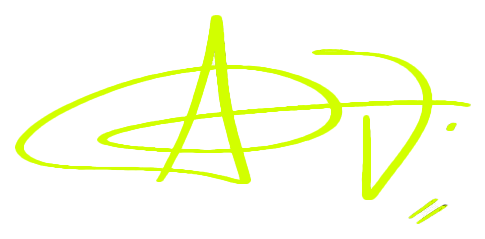
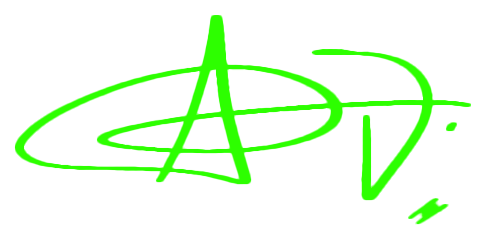
feat(theme): couleurs principales du site en BLANC + VERT #2DFF00
Retour client : le vert #2DFF00 devient l'accent principal, sur base sombre
et texte blanc. Retire l'orange (#f97316) et le bleu (#3b82f6) qui juraient,
et unifie les differents lime (#D2FF00, #C6EE2A, #D0F000) sur un seul vert.

- Tokens (tokens.ts + globals.css @theme, synchronises) : cta #f97316 ->
  #2DFF00, secondary #3b82f6 -> #2DFF00. ctaFg reste sombre (#0a0e14) : le
  texte du CTA sur vert vif garde un contraste ~13:1. text reste blanc.
- Hero du haut (wreck-reveal-hero + scroll-assembly-hero) : pilule d'appel,
  barre de signature et traces passent de #D2FF00 a #2DFF00.
- HeroAlo : accent, titre (LÀ/LÂCHE), liens et CTA de #C6EE2A a #2DFF00.
- Signature (public/signature-ad.webp) : recoloree #D0F000 -> #2DFF00 par
  Pillow (alpha des bords lisses preserve).
- Carte des routes Europe : orange -> vert.

Contraste : tokens.test.ts 10/10 (le CTA vert passe AA, blanc-sur-vert
echoue toujours d'ou le texte sombre) ; axe 0 violation sur /fr,
/transport-europe, /contact, /tarifs.

NON touche volontairement : le halo ambre (#f97316) de la descente WebGL de
la page contact — design VALIDÉ par le client (« parfait comme ça »), pas a
modifier sans demande. A confirmer s'il doit passer au vert aussi.

Changed region(s): [[0.0309, 0.0586, 0.9897, 0.8494], [0.8351, 0.8201, 0.9278, 0.9372]]

diff --git a/src/components/ui/scroll-assembly-hero.tsx b/src/components/ui/scroll-assembly-hero.tsx
@@ -512,7 +512,7 @@ export default function ScrollAssemblyHero({
         </div>
         <a
           href={callHref}
-          className="absolute right-6 top-24 inline-flex min-h-[44px] items-center gap-2 rounded-xl bg-[#D2FF00] px-4 py-2 text-sm font-bold uppercase text-[#111112]"
+          className="absolute right-6 top-24 inline-flex min-h-[44px] items-center gap-2 rounded-xl bg-[#2DFF00] px-4 py-2 text-sm font-bold uppercase text-[#111112]"
         >
           <PhoneIcon />
           {callLabel} <span className="font-mono tabular-nums">{callNumber}</span>
@@ -652,17 +652,17 @@ export default function ScrollAssemblyHero({
           >
             <motion.path
               d="M40 150 C 60 60 90 40 100 70 C 108 92 96 128 82 150 C 70 168 60 160 66 140 L 150 60 C 160 50 168 54 162 70 L 130 150 C 126 160 132 164 140 156 C 168 130 200 120 210 140 C 222 162 200 186 178 178 C 160 172 164 148 186 142"
-              stroke="#D2FF00" strokeWidth="10" strokeLinecap="round"
+              stroke="#2DFF00" strokeWidth="10" strokeLinecap="round"
               style={{ pathLength: sig1, opacity: sig1Vis }}
             />
             <motion.path
               d="M30 200 C 120 230 260 220 330 180"
-              stroke="#D2FF00" strokeWidth="10" strokeLinecap="round"
+              stroke="#2DFF00" strokeWidth="10" strokeLinecap="round"
               style={{ pathLength: sig2, opacity: sig2Vis }}
             />
             <motion.path
               d="M360 70 C 380 50 404 56 404 76 C 404 96 372 108 360 124 L 408 124 M446 60 L 424 104 L 462 104 M452 84 L 452 128 M486 130 L 512 56 M520 60 L 560 60 L 534 130"
-              stroke="#D2FF00" strokeWidth="10" strokeLinecap="round"
+              stroke="#2DFF00" strokeWidth="10" strokeLinecap="round"
               style={{ pathLength: sig3, opacity: sig3Vis }}
             />
           </svg>
@@ -674,7 +674,7 @@ export default function ScrollAssemblyHero({
           <LaurelIcon className="h-6 w-6" />
           <p className="text-[10px] font-bold uppercase tracking-[0.2em]">{caption}</p>
           <motion.div
-            className="h-0.5 w-24 origin-left bg-[#D2FF00]"
+            className="h-0.5 w-24 origin-left bg-[#2DFF00]"
             style={{ scaleX: barScale }}
           />
         </motion.div>
@@ -697,7 +697,7 @@ export default function ScrollAssemblyHero({
 
         <motion.a
           href={callHref}
-          className="absolute right-6 top-24 z-40 inline-flex min-h-[44px] items-center gap-2 rounded-xl bg-[#D2FF00] px-4 py-2 text-sm font-bold uppercase text-[#111112]"
+          className="absolute right-6 top-24 z-40 inline-flex min-h-[44px] items-center gap-2 rounded-xl bg-[#2DFF00] px-4 py-2 text-sm font-bold uppercase text-[#111112]"
           whileHover={{ scale: 1.05 }}
           transition={{ type: 'spring', stiffness: 300, damping: 18 }}
         >

diff --git a/src/components/ui/wreck-reveal-hero.tsx b/src/components/ui/wreck-reveal-hero.tsx
@@ -73,7 +73,7 @@ import InkReveal from './ink-reveal';
  * Adaptations projet (memes raisons que scroll-assembly-hero) :
  * framer-motion, Inter, Instrument Serif deja en place, pas de lucide,
  * pilule lime = bouton d'APPEL, tokens calibres sur le vrai site
- * (#D2FF00/#EFEFE5), reduced-motion = un ecran statique restaure.
+ * (#2DFF00/#EFEFE5), reduced-motion = un ecran statique restaure.
  */
 
 interface WreckRevealHeroProps {
@@ -440,7 +440,7 @@ export default function WreckRevealHero({
         </div>
         <a
           href={callHref}
-          className="absolute right-6 top-24 inline-flex min-h-[44px] items-center gap-2 rounded-xl bg-[#D2FF00] px-4 py-2 text-sm font-bold uppercase text-[#111112]"
+          className="absolute right-6 top-24 inline-flex min-h-[44px] items-center gap-2 rounded-xl bg-[#2DFF00] px-4 py-2 text-sm font-bold uppercase text-[#111112]"
         >
           <PhoneIcon />
           {callLabel} <span className="font-mono tabular-nums">{callNumber}</span>
@@ -630,7 +630,7 @@ export default function WreckRevealHero({
         >
           <LaurelIcon className="h-6 w-6" />
           <p className="text-[10px] font-bold uppercase tracking-[0.2em]">{caption}</p>
-          <motion.div className="h-0.5 w-24 origin-left bg-[#D2FF00]" style={{ scaleX: barScale }} />
+          <motion.div className="h-0.5 w-24 origin-left bg-[#2DFF00]" style={{ scaleX: barScale }} />
         </motion.div>
 
         {/* Chrome fixe (sous le header sticky du site : top-24). */}
@@ -642,7 +642,7 @@ export default function WreckRevealHero({
         </motion.div>
         <motion.a
           href={callHref}
-          className="absolute right-6 top-24 z-40 inline-flex min-h-[44px] items-center gap-2 rounded-xl bg-[#D2FF00] px-4 py-2 text-sm font-bold uppercase text-[#111112]"
+          className="absolute right-6 top-24 z-40 inline-flex min-h-[44px] items-center gap-2 rounded-xl bg-[#2DFF00] px-4 py-2 text-sm font-bold uppercase text-[#111112]"
           whileHover={{ scale: 1.05 }}
           transition={{ type: 'spring', stiffness: 300, damping: 18 }}
         >
@@ -683,7 +683,7 @@ export default function WreckRevealHero({
                 type="button"
                 onClick={() => setQa(mode)}
                 className={`rounded-md px-3 py-1.5 text-xs font-bold uppercase ${
-                  qa === mode ? 'bg-[#D2FF00] text-[#111112]' : 'bg-black/60 text-white'
+                  qa === mode ? 'bg-[#2DFF00] text-[#111112]' : 'bg-black/60 text-white'
                 }`}
               >
                 {mode}

diff --git a/src/components/ui/HeroAlo.tsx b/src/components/ui/HeroAlo.tsx
@@ -19,9 +19,10 @@ import { ContourLayer } from './scroll-assembly-hero';
  * (pages / reseaux), frise de reassurance, CTA pilule a cheval sur le bord
  * bas, et un pied de section fin.
  *
- * Palette B « neon » (choisie) : panneau olive tres sombre #171912, accent
- * lime #C6EE2A, texte #F4F4F4 / secondaire #9A9A9A — coherente avec la lime
- * deja presente dans le hero du haut et la signature (#D0F000).
+ * Palette « neon » : panneau olive tres sombre #171912, accent VERT #2DFF00
+ * (couleur principale du site, retour client 2026-07-22 — remplace l'ancien
+ * lime/orange), texte #F4F4F4 / secondaire #9A9A9A. La signature et tous les
+ * accents du site partagent desormais ce meme vert.
  *
  * Composant autonome et TRILINGUE : sa copie vit dans COPY[locale] plutot
  * que dans le systeme de contenu partage (il ne sert qu'ici). Les liens
@@ -155,7 +156,7 @@ const COPY: Record<
   },
 };
 
-const ACCENT = '#C6EE2A';
+const ACCENT = '#2DFF00';
 const PANEL_BG = '#F2F4E6'; // couleur du fond clair au niveau du bord haut (encoche)
 
 export function HeroAlo({ locale }: { locale: Locale }) {
@@ -377,7 +378,7 @@ export function HeroAlo({ locale }: { locale: Locale }) {
               <li key={p.href}>
                 <a
                   href={linkFor(p.href)}
-                  className="text-lg font-extrabold uppercase tracking-tight text-[#F4F4F4] transition-colors hover:text-[#C6EE2A]"
+                  className="text-lg font-extrabold uppercase tracking-tight text-[#F4F4F4] transition-colors hover:text-[#2DFF00]"
                 >
                   {p.label}
                 </a>
@@ -410,7 +411,7 @@ export function HeroAlo({ locale }: { locale: Locale }) {
                   href={isResolved(s.field) ? s.field.value : '#'}
                   target="_blank"
                   rel="noopener noreferrer"
-                  className="text-lg font-extrabold uppercase tracking-tight text-[#F4F4F4] transition-colors hover:text-[#C6EE2A]"
+                  className="text-lg font-extrabold uppercase tracking-tight text-[#F4F4F4] transition-colors hover:text-[#2DFF00]"
                 >
                   {s.label}
                 </a>

diff --git a/src/components/ui/EuropeRoutesStatic.tsx b/src/components/ui/EuropeRoutesStatic.tsx
@@ -45,7 +45,7 @@ export function EuropeRoutesStatic({
             y1={HUB.y}
             x2={city.x}
             y2={city.y}
-            stroke="#F97316"
+            stroke="#2DFF00"
             strokeWidth={1}
             strokeOpacity={0.5}
             strokeDasharray="3 3"
@@ -58,7 +58,7 @@ export function EuropeRoutesStatic({
               cx={city.x}
               cy={city.y}
               r={city.name === HUB.name ? 6 : 3}
-              fill={city.name === HUB.name ? '#F97316' : '#94A3B8'}
+              fill={city.name === HUB.name ? '#2DFF00' : '#94A3B8'}
             />
             <text
               x={city.x + 9}

diff --git a/src/app/globals.css b/src/app/globals.css
@@ -9,9 +9,9 @@
   --color-surface: #141a23;
   --color-text: #f8fafc;
   --color-muted: #94a3b8;
-  --color-cta: #f97316;
+  --color-cta: #2dff00;
   --color-cta-fg: #0a0e14;
-  --color-secondary: #3b82f6;
+  --color-secondary: #2dff00;
   --color-border: #1e293b;
 
   /* Alias facon shadcn : les composants integres depuis des bibliotheques

diff --git a/src/lib/tokens.ts b/src/lib/tokens.ts
@@ -7,9 +7,9 @@ export const tokens = {
   surface: '#141A23',
   text: '#F8FAFC',
   muted: '#94A3B8',
-  cta: '#F97316',
+  cta: '#2DFF00',
   ctaFg: '#0A0E14',
-  secondary: '#3B82F6',
+  secondary: '#2DFF00',
   border: '#1E293B',
 } as const;
 
